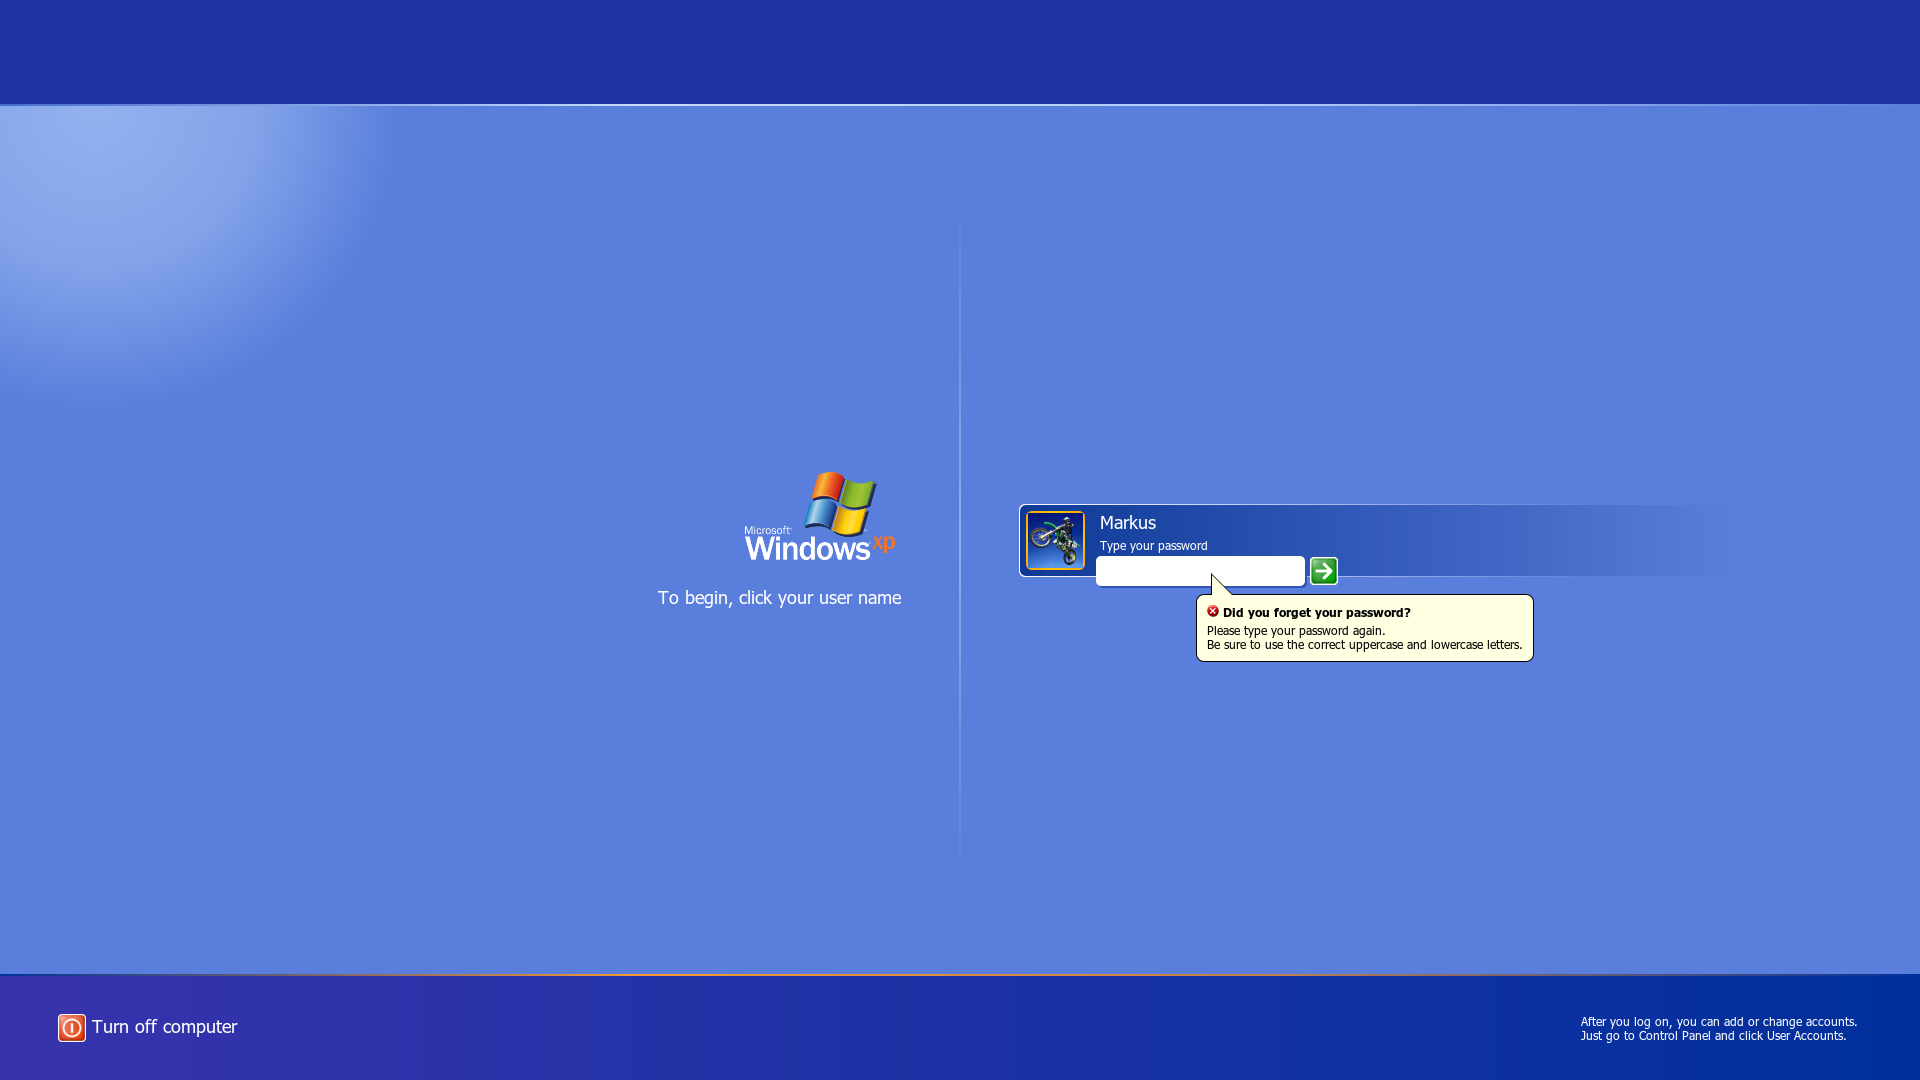
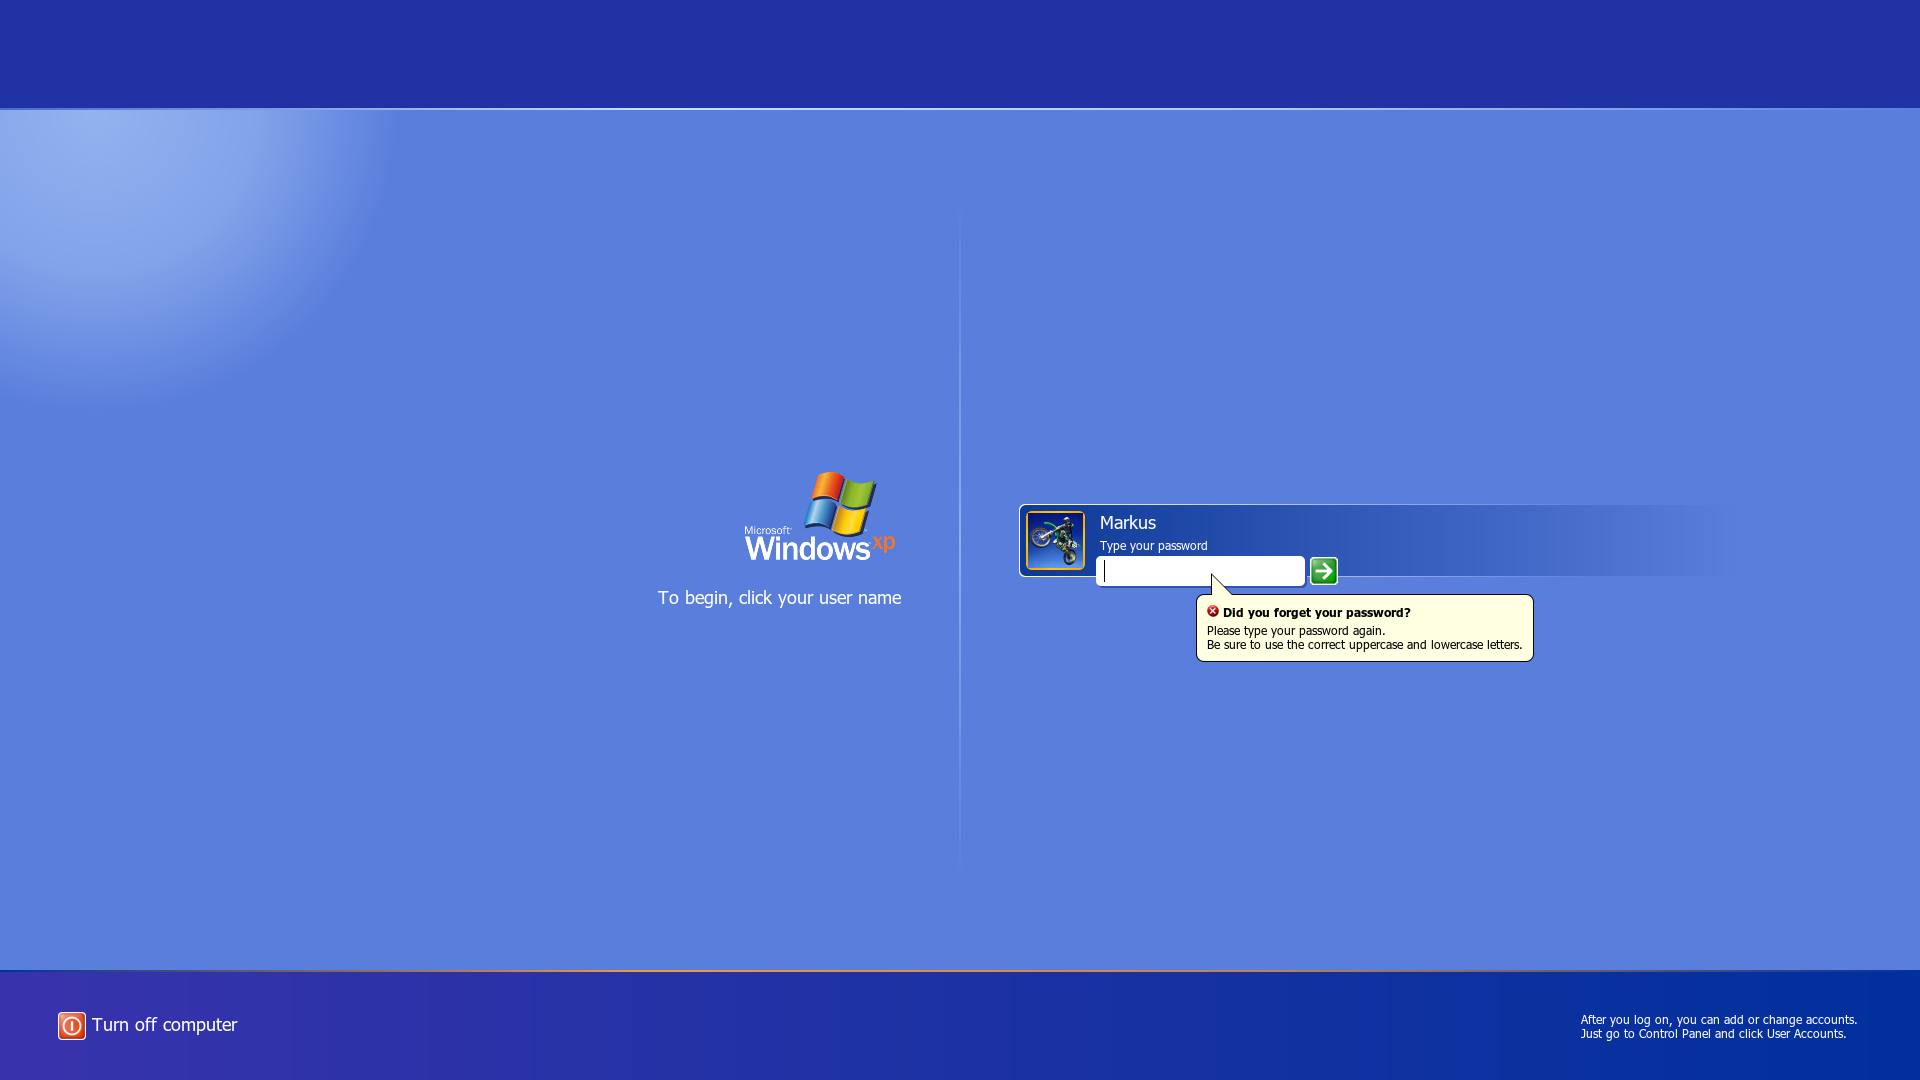
Add support for displaying a large number of user accounts.

Changed region(s): [[0.0, 0.8861, 1.0, 0.9778], [0.0, 0.0917, 1.0, 0.1222], [0.8125, 0.9472, 0.9688, 0.9778]]

diff --git a/index.html b/index.html
@@ -26,41 +26,43 @@
                 </div>
                 <div id="centerDivider"></div>
                 <div id="centerRight">
-                    <template id="user-template">
-                        <div class="user-border-wrapper">
-                            <div class="user">
-                                <div class="profile-picture-wrapper">
-                                    <img src="img/bike.jpeg" class="profile-picture">
-                                </div>
-                                <span class="user-name">
-                                    Markus
-                                </span>
-                                <div class="password-box">
-                                    <span class="password-msg">
-                                        Type your password
+                    <div id="userListings">
+                        <template id="user-template">
+                            <div class="user-border-wrapper">
+                                <div class="user">
+                                    <div class="profile-picture-wrapper">
+                                        <img src="img/bike.jpeg" class="profile-picture">
+                                    </div>
+                                    <span class="user-name">
+                                        Markus
                                     </span>
-                                    <form class="password-form">
-                                        <input type="password" class="password"/>
-                                        <input type="image" src="img/continue.png" class="img-button"/>
-                                    </form>
-                                </div>
-                                <div class="password-error-popup">
-                                    <div class="popup-arrow-border">
-                                        <div class="popup-arrow"></div>
+                                    <div class="password-box">
+                                        <span class="password-msg">
+                                            Type your password
+                                        </span>
+                                        <form class="password-form">
+                                            <input type="password" class="password"/>
+                                            <input type="image" src="img/continue.png" class="img-button"/>
+                                        </form>
                                     </div>
-                                    <div class="password-error-title">
-                                        <img src="img/error.png" class="password-error-icon"/>
-                                        Did you forget your password?
-                                    </div>
-                                    <div>
-                                        Please type your password again.
-                                        </br>
-                                        Be sure to use the correct uppercase and lowercase letters.
+                                    <div class="password-error-popup">
+                                        <div class="popup-arrow-border">
+                                            <div class="popup-arrow"></div>
+                                        </div>
+                                        <div class="password-error-title">
+                                            <img src="img/error.png" class="password-error-icon"/>
+                                            Did you forget your password?
+                                        </div>
+                                        <div>
+                                            Please type your password again.
+                                            </br>
+                                            Be sure to use the correct uppercase and lowercase letters.
+                                        </div>
                                     </div>
                                 </div>
                             </div>
-                        </div>
-                    </template>
+                        </template>
+                    </div>
                 </div>
             </div>
             <!-- Footer -->

diff --git a/css/xp.css b/css/xp.css
@@ -88,7 +88,8 @@
     --shadow-color: #3151B5;
 
     /* Sizes - General */
-    --header-height: 12%;
+    --header-height: 10%;
+    --footer-height: 10%;
     --stripe-height: 2px;
     --center-divider-width: 2px;
     --image-button-size: 28px;
@@ -159,12 +160,11 @@ body
     background-color: var(--primary-bg);
     font: var(--primary-font-size) var(--primary-font-family);
     color: var(--primary-font-color);
-    display: flex;
-    flex-direction: column;
 }
 
 #header
 {
+    flex-shrink: 0;
     width: 100%;
     height: var(--header-height);
     background-color: var(--header-bg);
@@ -172,6 +172,7 @@ body
 
 #headerStripe
 {
+    flex-shrink: 0;
     width: 100%;
     height: var(--stripe-height);
     background: linear-gradient(45deg, var(--header-stripe-0),
@@ -185,7 +186,7 @@ body
 
 #center
 {
-    height: 100%;
+    height: calc(100% - (var(--header-height) + var(--footer-height) + var(--stripe-height) * 2));
     background: radial-gradient(circle at 5% 0, var(--radial-gradient-inner) 0,
         var(--radial-gradient-mid) 8%, var(--radial-gradient-outer) 15%);
     flex-grow: 1;
@@ -226,10 +227,19 @@ body
 
 #centerRight
 {
+    height: 100%;
     flex: 1 1 0px;
     display: flex;
     flex-direction: column;
+    /* safe center Not Supported, Using flex-start + auto Margins Instead */
+    justify-content: flex-start;
     /* gap: 15px; */
+    overflow: auto;
+}
+
+#userListings
+{
+    margin: auto 0;
 }
 
 /*
@@ -237,17 +247,18 @@ body
  * yet correctly supported by the webkit
  * version included in the lighdm package.
  */
-#centerRight > *
+#userListings > *
 {
     margin-bottom: 15px;
 }
-#centerRight > *:last-child
+#userListings > *:last-child
 {
     margin-bottom: 0;
 }
 
 #footerStripe
 {
+    flex-shrink: 0;
     width: 100%;
     height: var(--stripe-height);
     background: linear-gradient(45deg, var(--footer-stripe-0),
@@ -256,8 +267,9 @@ body
 
 #footer
 {
+    flex-shrink: 0;
     width: 100%;
-    height: var(--header-height);
+    height: var(--footer-height);
     background: linear-gradient(90deg, var(--footer-bg-left), var(--footer-bg-right));
     display: flex;
     flex-direction: row;
@@ -311,6 +323,7 @@ body
 
 .user
 {
+    position: relative;
     background-color: var(--primary-bg);
     outline: 1px solid var(--primary-bg);
     padding: 6px 0 6px 6px;
@@ -512,6 +525,7 @@ body
     font-style: italic;
     font-size: 50px;
     text-shadow: 2px 3px 0 var(--shadow-color);
+    margin: auto 0;
 }
 
 #shutdown-prompt-overlay

diff --git a/js/main.js b/js/main.js
@@ -238,7 +238,7 @@ function checkInit()
 function init()
 {
     // For Each User, Add A Listing In The HTML Document
-    let userListDiv = document.getElementById("centerRight");
+    let userListDiv = document.getElementById("userListings");
     for (let i = 0; i < lightdm.users.length; i++)
     {
         let user = lightdm.users[i];

diff --git a/README.md b/README.md
@@ -30,6 +30,10 @@ Shutdown Options:
 
 ![shutdown_options](screenshot/shutdown_options.png)
 
+Multiple Users:
+
+![multiple_users](screenshot/multiple_users.png)
+
 # Warnings
 If you have no experience installing or configuring `lightdm-webkit2-greeter` then I recommend you have extreme caution installing this theme and avoid it if you are not comfortable with the possibility of recovering your login screen from the command line. While I do not currently have any severe issues using the theme on a daily basis myself, I will continue to make small changes that could affect stability in the future. A broken lightdm theme can prevent you from logging in graphically. In this case, you can switch to another tty and revert changes to the configurations using an editor like `nano`. While I do not plan to push breaking changes, I do not make any guarantees over this project and would not want someone to break their system who would have a hard time restoring it.
 
@@ -37,7 +41,6 @@ If you have no experience installing or configuring `lightdm-webkit2-greeter` th
 *Please be aware of the following:*
 * The theme does ***not*** support choosing a desktop environment within the login screen; you will need to make sure to customize `index.theme` to the one you need.
 * If you do not have a user profile picture set, the default is the Windows XP dirt bike profile picture.
-* Multiple users should be supported, but have not been thoroughly tested on a real working setup. I will do this soon. If you have *a lot* of users then they will likely run off the screen at this time. This shouldn't be an issue for most users but is something to be aware of.
 * There is no option to manually enter a username. If you have users which are hidden from the user list used by lightdm then you will not be able to access that account from this login screen.
 
 # Installation
